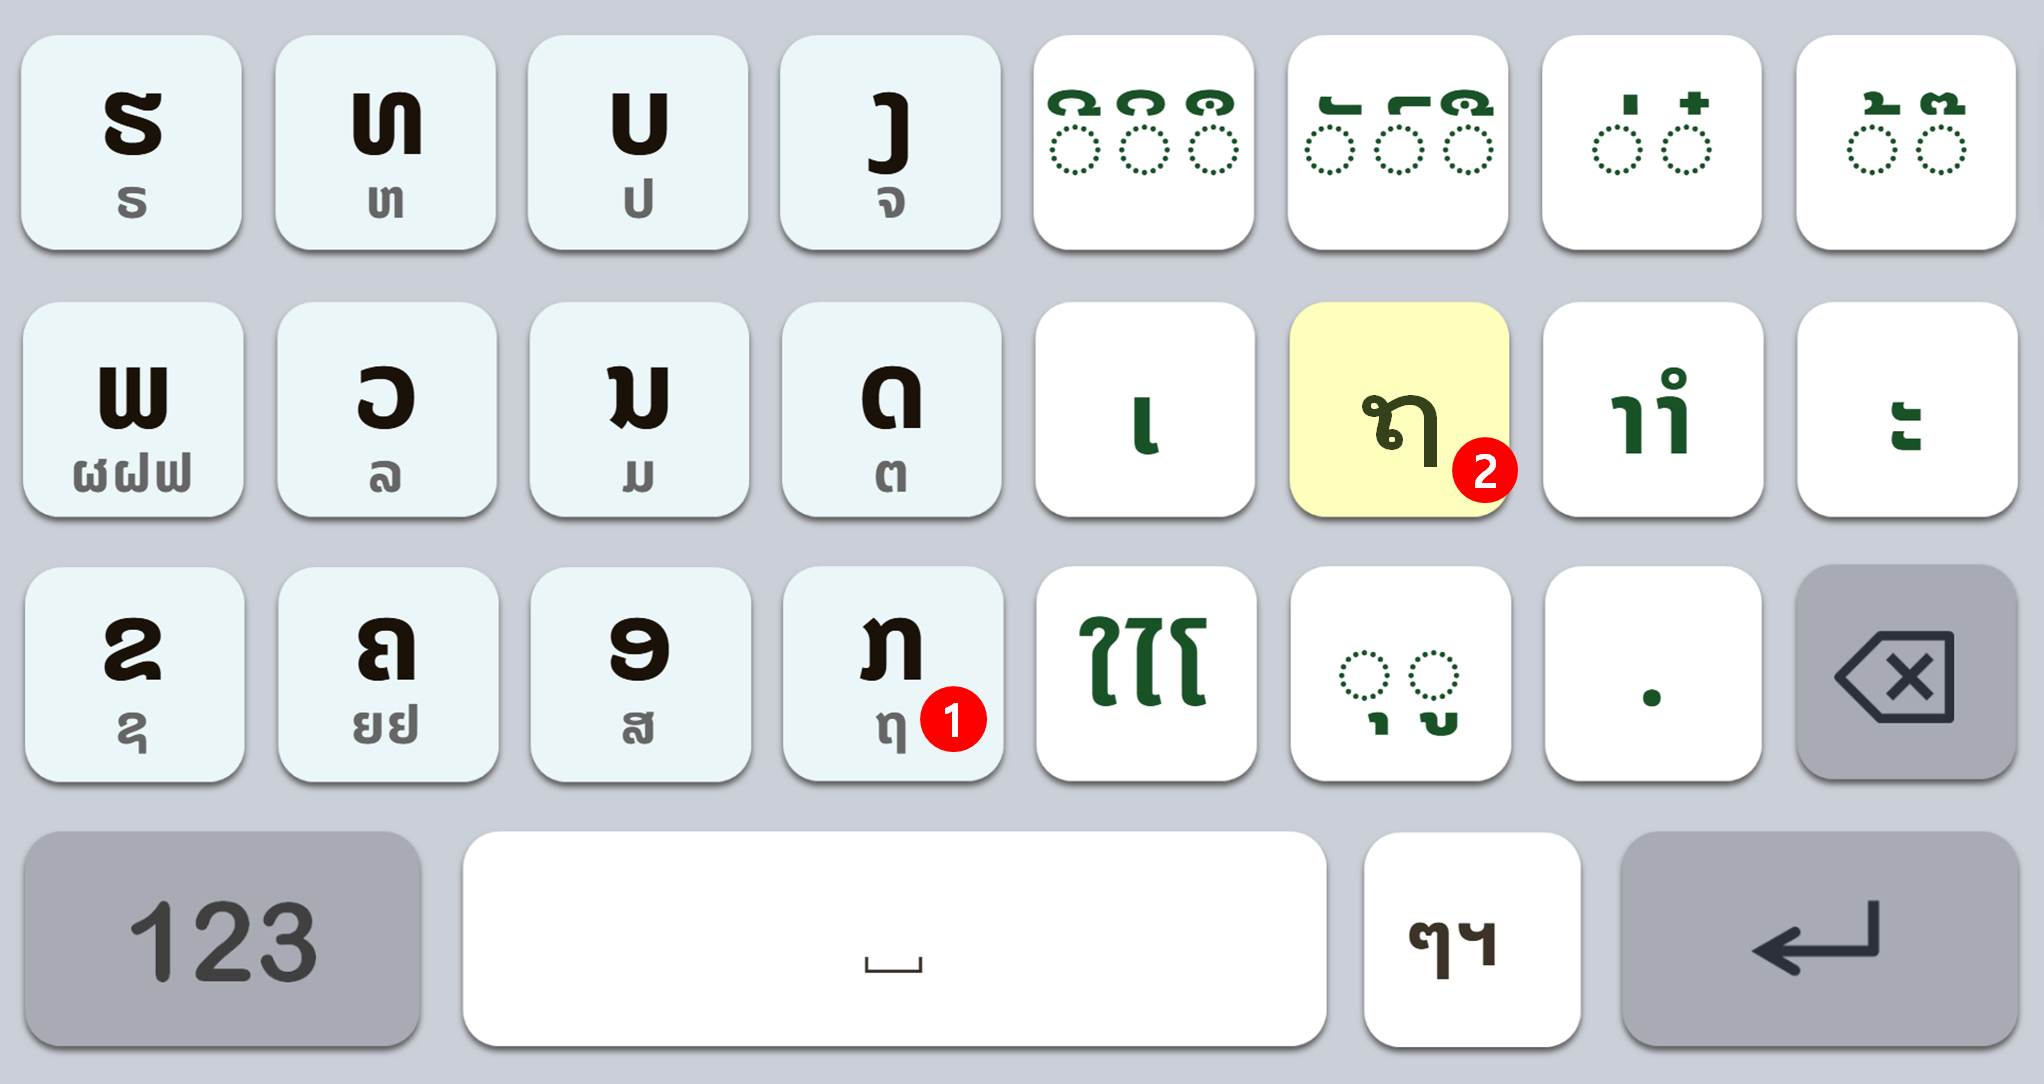
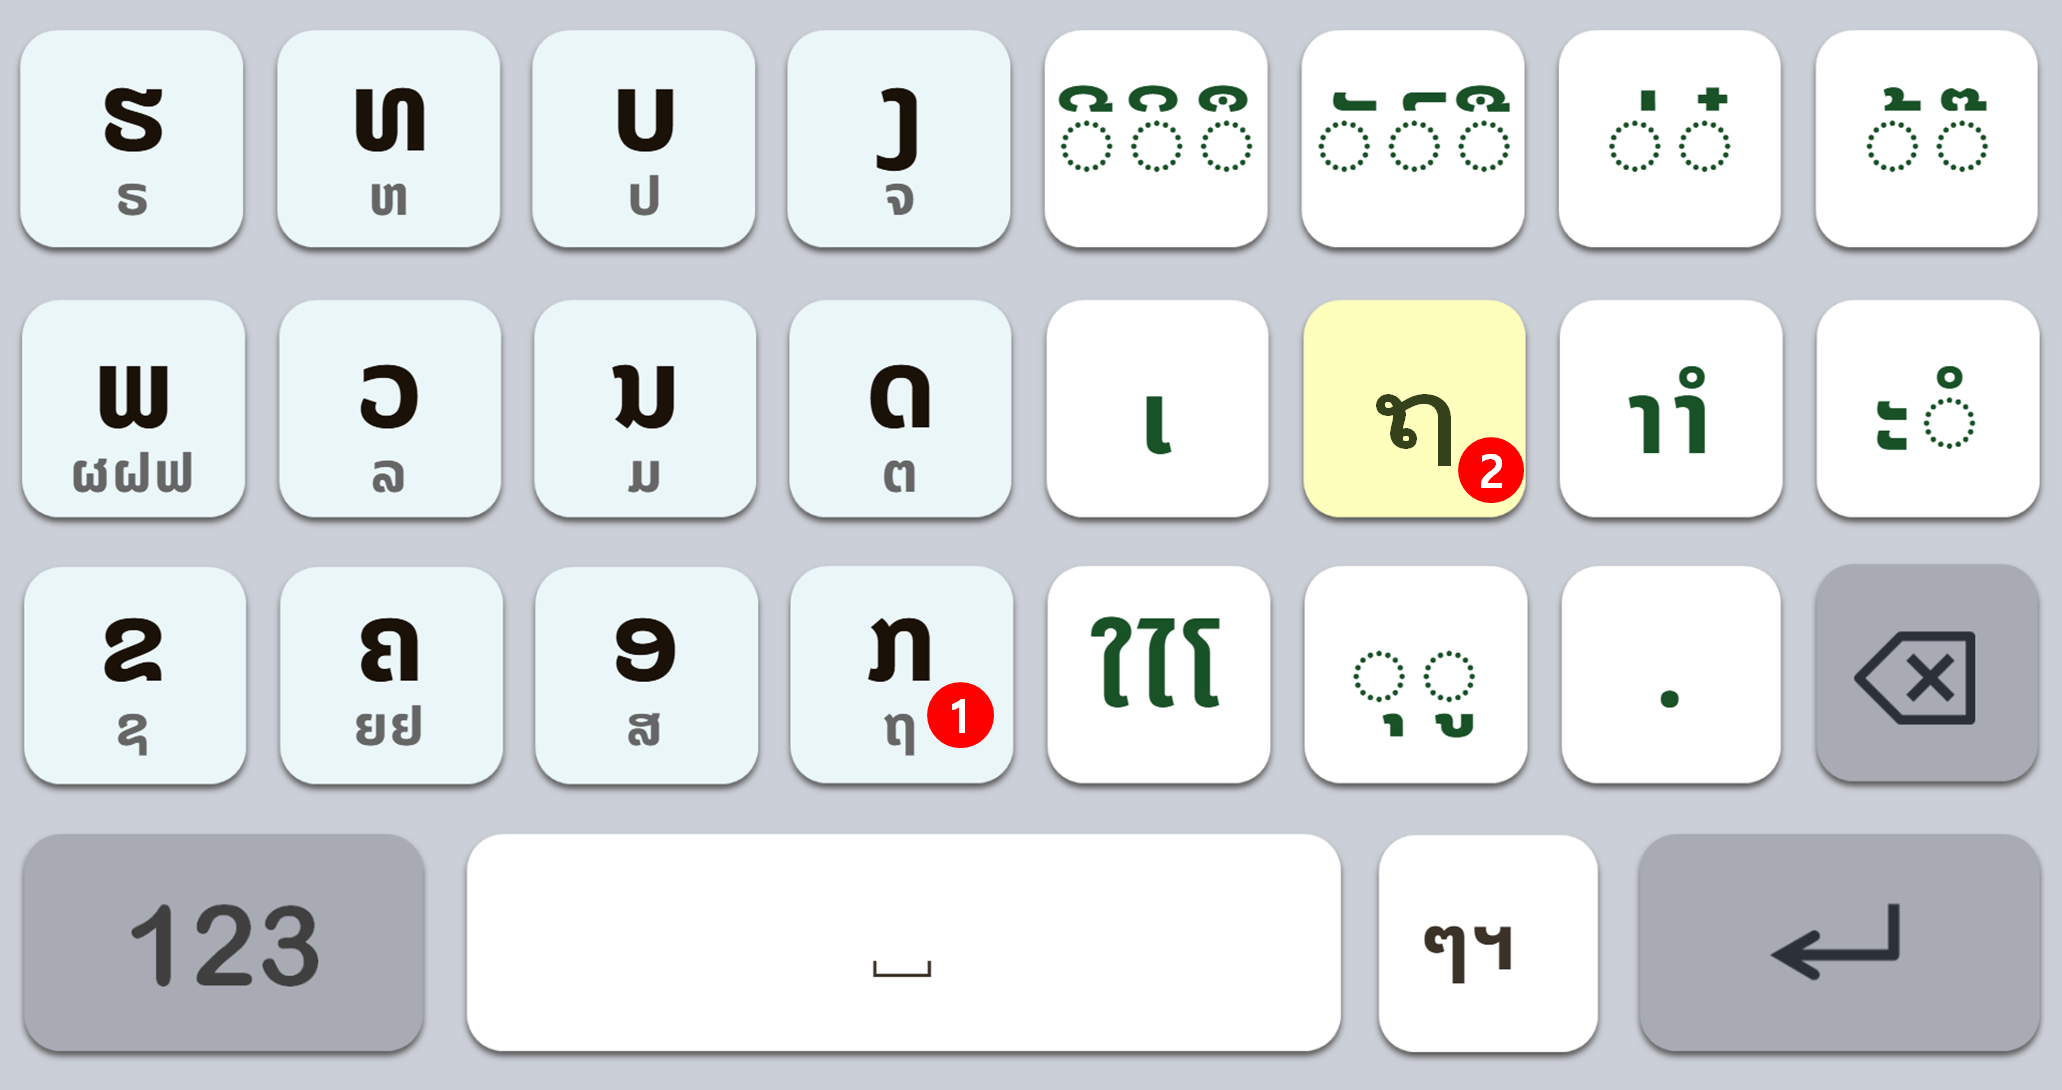
Add files via upload

diff --git a/mobile_demo.html b/mobile_demo.html
@@ -134,7 +134,7 @@ const rightKeys = [
     { type:'sign', chars:['ເ','ແ'], display:'ເ' },
     { type:'next' },
     { type:'sign', chars:['າ','ຳ'] },
-    { type:'sign', chars:['ະ'] },
+    { type:'sign', chars:['ະ','ໍ'] },
   ],
   [
     { type:'sign', chars:['ໃ','ໄ','ໂ'] },
